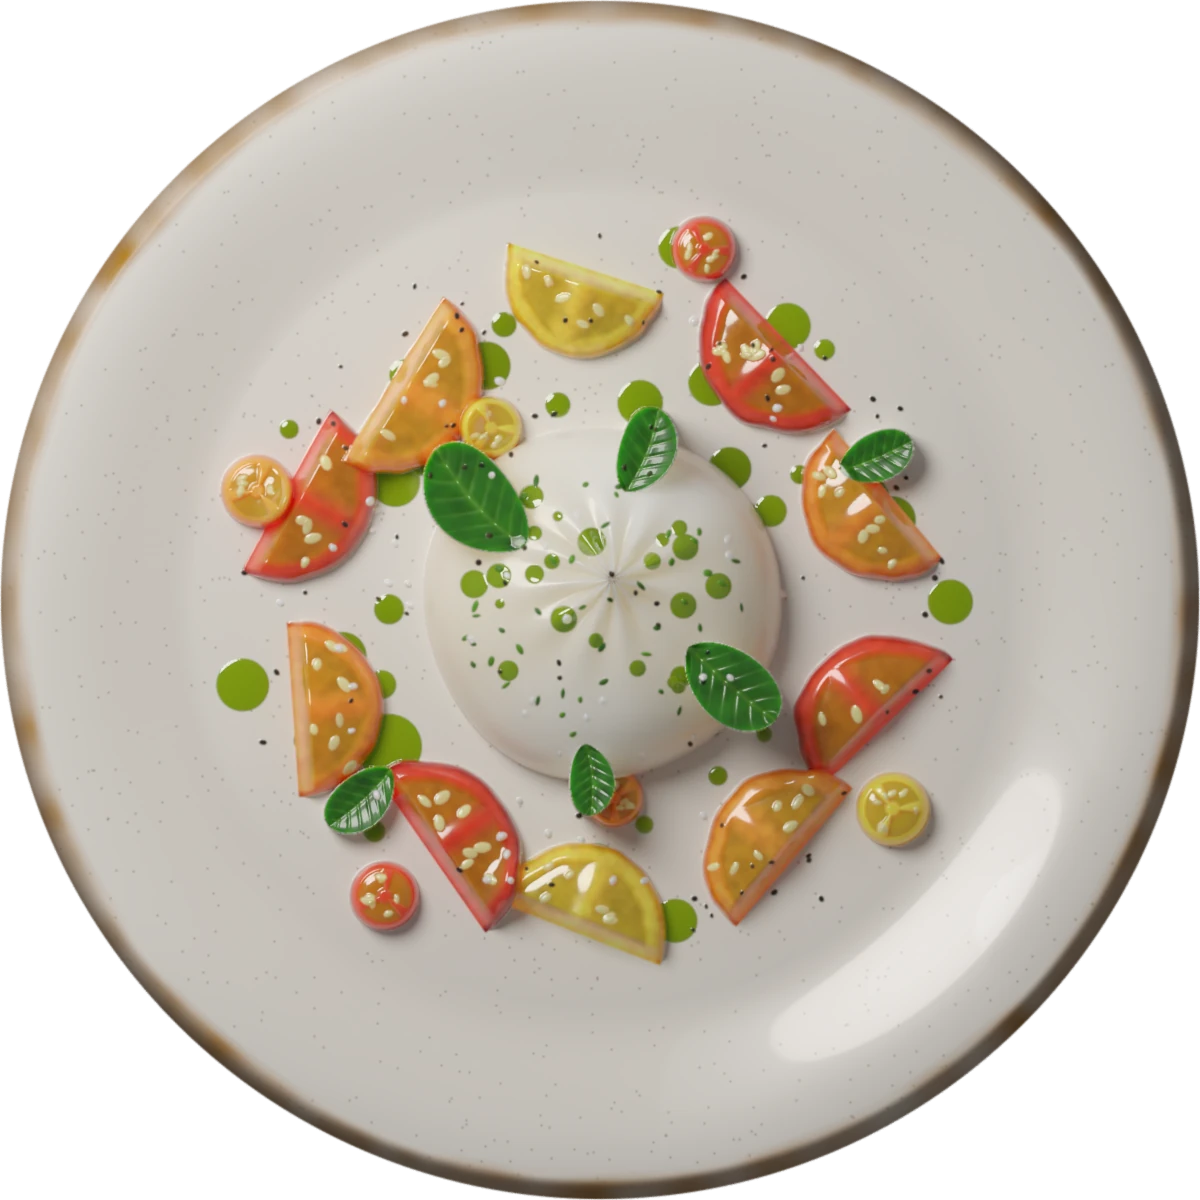
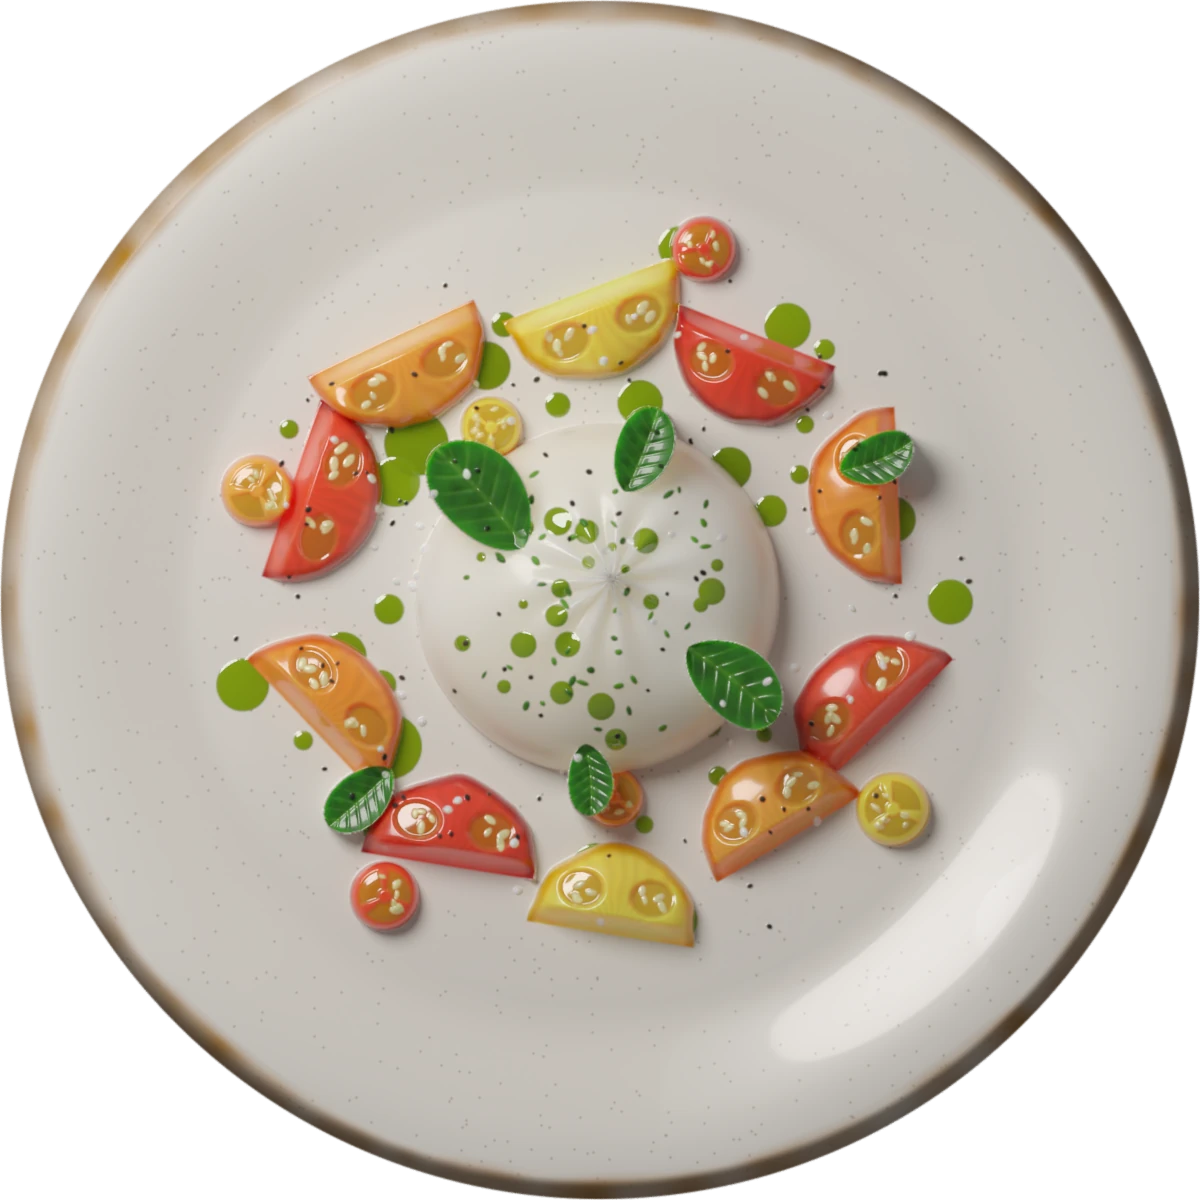
Polish TAVOLA: softer shadows, phone scrim, static export, clearer tomatoes
- Plate shadows are wider and softer; the phone scrim now keeps the copy
  on solid floor instead of over the cloth lettering.
- Short landscape windows tighten the detail column so the order bar
  always fits.
- The opening waits for the plates to decode, so they no longer pop in.
- The nav comes before the table in the document, and the row of ticks
  is out of the tab order (the arrows and arrow keys do the same job).
- TAVOLA_EXPORT=1 now builds a static site; the two streaming options
  are switched off for that build because an export has no server.
- Redrew the tomato wedges on the burrata plate with flesh, a core and
  seed pockets, and scattered the peppercorns instead of ringing them.
- Own icon instead of the starter favicon; README pointer at the root.

Claude-Session: https://claude.ai/code/session_01WM6oeHUoorp6yvYmaWkMyB

Changed region(s): [[0.185, 0.185, 0.8017, 0.8017]]

diff --git a/tavola/src/components/Hero.tsx b/tavola/src/components/Hero.tsx
@@ -380,7 +380,7 @@ export default function Hero() {
         e.pos = next;
       } else {
         const x0 = e.pos - e.target;
-        if (Math.abs(x0) < 0.0004 && Math.abs(e.vel) < 0.002) {
+        if (Math.abs(x0) < 0.001 && Math.abs(e.vel) < 0.01) {
           e.pos = e.target;
           e.vel = 0;
         } else {
@@ -705,6 +705,82 @@ export default function Hero() {
         {say}
       </p>
 
+      {/* ---------- nav ---------- */}
+      <header className="hero-nav">
+        <a href="#menu" className="block flex-1 leading-none" aria-label={`${brand.name}, ${brand.tagline}`}>
+          <span className="block font-serif text-[1.12rem] font-medium tracking-[0.34em]">{brand.name}</span>
+          <span className="mt-[0.45rem] block text-[0.54rem] font-medium tracking-[0.3em] text-cream/55 uppercase">
+            {brand.tagline}
+          </span>
+        </a>
+
+        <nav aria-label="Primary" className="hidden flex-none pt-1 wide:block">
+          <ul className="flex gap-9">
+            {nav.map((item) => (
+              <li key={item.href}>
+                <a className="nav-link" href={item.href}>
+                  {item.label}
+                </a>
+              </li>
+            ))}
+          </ul>
+        </nav>
+
+        <div ref={orderRef} className="relative flex flex-1 justify-end pt-1">
+          <button
+            type="button"
+            className="nav-link flex items-center gap-2.5"
+            aria-expanded={orderOpen}
+            aria-controls="order-panel"
+            onClick={() => setOrderOpen((v) => !v)}
+          >
+            <span>Order</span>
+            <span key={count} className="badge" aria-hidden>
+              {count}
+            </span>
+            <span className="sr-only">
+              , {count} {count === 1 ? "portion" : "portions"}
+            </span>
+          </button>
+          {orderOpen && (
+            <div id="order-panel" className="order-panel" role="dialog" aria-label="Your order">
+              <p className="label">Your order</p>
+              {count === 0 ? (
+                <p className="mt-3 text-[0.9rem] leading-relaxed text-cream/70">
+                  Nothing yet. Turn the table, open a dish and add it from there.
+                </p>
+              ) : (
+                <>
+                  <ul className="mt-3 divide-y divide-cream/15 border-y border-cream/15 text-[0.9rem]">
+                    {dishes
+                      .filter((d) => order[d.id])
+                      .map((d) => (
+                        <li key={d.id} className="flex items-baseline justify-between gap-4 py-2.5">
+                          <span>
+                            <span className="text-cream/55 tabular-nums">{order[d.id]} ×</span> {d.name[0]} {d.name[1]}
+                          </span>
+                          <span className="tabular-nums">€{order[d.id] * d.price}</span>
+                        </li>
+                      ))}
+                  </ul>
+                  <div className="mt-3 flex items-baseline justify-between">
+                    <span className="label">Total</span>
+                    <span className="font-serif text-[1.5rem] leading-none">€{total}</span>
+                  </div>
+                  <button
+                    type="button"
+                    className="mt-4 text-[0.62rem] font-semibold tracking-[0.22em] text-cream/60 uppercase underline-offset-4 hover:text-cream hover:underline"
+                    onClick={() => setOrder({})}
+                  >
+                    Clear the order
+                  </button>
+                </>
+              )}
+            </div>
+          )}
+        </div>
+      </header>
+
       {/* ---------- the table ---------- */}
       <div
         ref={stageRef}
@@ -831,82 +907,6 @@ export default function Hero() {
 
       <div className="scrim" />
 
-      {/* ---------- nav ---------- */}
-      <header className="hero-nav">
-        <a href="#menu" className="block flex-1 leading-none" aria-label={`${brand.name}, ${brand.tagline}`}>
-          <span className="block font-serif text-[1.12rem] font-medium tracking-[0.34em]">{brand.name}</span>
-          <span className="mt-[0.45rem] block text-[0.54rem] font-medium tracking-[0.3em] text-cream/55 uppercase">
-            {brand.tagline}
-          </span>
-        </a>
-
-        <nav aria-label="Primary" className="hidden flex-none pt-1 wide:block">
-          <ul className="flex gap-9">
-            {nav.map((item) => (
-              <li key={item.href}>
-                <a className="nav-link" href={item.href}>
-                  {item.label}
-                </a>
-              </li>
-            ))}
-          </ul>
-        </nav>
-
-        <div ref={orderRef} className="relative flex flex-1 justify-end pt-1">
-          <button
-            type="button"
-            className="nav-link flex items-center gap-2.5"
-            aria-expanded={orderOpen}
-            aria-controls="order-panel"
-            onClick={() => setOrderOpen((v) => !v)}
-          >
-            <span>Order</span>
-            <span key={count} className="badge" aria-hidden>
-              {count}
-            </span>
-            <span className="sr-only">
-              , {count} {count === 1 ? "portion" : "portions"}
-            </span>
-          </button>
-          {orderOpen && (
-            <div id="order-panel" className="order-panel" role="dialog" aria-label="Your order">
-              <p className="label">Your order</p>
-              {count === 0 ? (
-                <p className="mt-3 text-[0.9rem] leading-relaxed text-cream/70">
-                  Nothing yet. Turn the table, open a dish and add it from there.
-                </p>
-              ) : (
-                <>
-                  <ul className="mt-3 divide-y divide-cream/15 border-y border-cream/15 text-[0.9rem]">
-                    {dishes
-                      .filter((d) => order[d.id])
-                      .map((d) => (
-                        <li key={d.id} className="flex items-baseline justify-between gap-4 py-2.5">
-                          <span>
-                            <span className="text-cream/55 tabular-nums">{order[d.id]} ×</span> {d.name[0]} {d.name[1]}
-                          </span>
-                          <span className="tabular-nums">€{order[d.id] * d.price}</span>
-                        </li>
-                      ))}
-                  </ul>
-                  <div className="mt-3 flex items-baseline justify-between">
-                    <span className="label">Total</span>
-                    <span className="font-serif text-[1.5rem] leading-none">€{total}</span>
-                  </div>
-                  <button
-                    type="button"
-                    className="mt-4 text-[0.62rem] font-semibold tracking-[0.22em] text-cream/60 uppercase underline-offset-4 hover:text-cream hover:underline"
-                    onClick={() => setOrder({})}
-                  >
-                    Clear the order
-                  </button>
-                </>
-              )}
-            </div>
-          )}
-        </div>
-      </header>
-
       {/* ---------- copy ---------- */}
       <div
         className="copy"
@@ -968,6 +968,8 @@ export default function Hero() {
                       key={d.id}
                       type="button"
                       className="tick"
+                      // the arrows either side (and the arrow keys) already do this from a keyboard
+                      tabIndex={-1}
                       aria-label={`${d.name[0]} ${d.name[1]}`}
                       aria-current={i === active ? "true" : undefined}
                       onClick={() => goTo(i)}

diff --git a/tavola/src/components/Sections.tsx b/tavola/src/components/Sections.tsx
@@ -48,7 +48,7 @@ export default function Sections() {
             {dishes.map((d, i) => (
               <li
                 key={d.id}
-                className="grid grid-cols-[2.2rem_1fr] items-baseline gap-x-4 gap-y-1 border-b border-cream/15 py-4 wide:grid-cols-[3rem_1fr_1fr_auto] wide:py-5"
+                className="grid grid-cols-[2.2rem_1fr] items-baseline gap-x-4 gap-y-1 border-b border-cream/15 py-4 wide:grid-cols-[3rem_1.1fr_1fr_11rem] wide:py-5"
               >
                 <span className="text-[0.7rem] tracking-[0.2em] text-cream/40 tabular-nums">{String(i + 1).padStart(2, "0")}</span>
                 <span className="font-serif text-[1.25rem] leading-tight font-[360]">

diff --git a/tavola/next.config.ts b/tavola/next.config.ts
@@ -8,8 +8,9 @@ import type { NextConfig } from "next";
 const staticExport = process.env.TAVOLA_EXPORT === "1";
 
 const nextConfig: NextConfig = {
-  cacheComponents: true,
-  partialPrefetching: true,
+  // a static export has no server to stream from, so these two stay off there
+  cacheComponents: !staticExport,
+  partialPrefetching: !staticExport,
   ...(staticExport ? { output: "export" as const } : {}),
   turbopack: {
     // this app lives in a sub-folder of the repository

diff --git a/tavola/src/app/globals.css b/tavola/src/app/globals.css
@@ -32,12 +32,15 @@
 }
 
 html {
+  color-scheme: dark;
   background: var(--color-ink);
   scroll-behavior: smooth;
 }
 
 body {
   font-family: var(--font-sans);
+  font-size: 1rem;
+  line-height: 1.5;
   color: var(--color-cream);
   background: var(--color-ink);
 }

diff --git a/tavola/art/dishes.py b/tavola/art/dishes.py
@@ -116,7 +116,8 @@ def herbs(c: Canvas, n, where, size=0.008, cols=("#3c7a22", "#2c5f1a", "#5c9a30"
 
 
 def tomato_wedge(c: Canvas, cx, cy, L, W, ang, skin, flesh):
-    """A wedge lying cut-face up: skin arc on one side, core on the other."""
+    """A wedge lying cut-face up: skin arc on one side, pale core on the other,
+    two seed pockets between thick walls of flesh."""
     skin, flesh = hexc(skin), hexc(flesh)
     sl, x, y = c.win(cx, cy, L * 0.62)
     u, v = local(x, y, cx, cy, ang)
@@ -126,29 +127,30 @@ def tomato_wedge(c: Canvas, cx, cy, L, W, ang, skin, flesh):
     k = k * (1 + 0.025 * c.noise(sl, 6 / L, 2))
     sd = np.maximum((k - 1) * b, -v)
     m = cov(sd, c.px)
-    wall = sstep(0.74, 0.86, k)
-    core = sstep(0.16 * b, 0.05 * b, v)
-    rib = np.exp(-(u / (0.07 * L)) ** 2)
-    gel = np.clip(1 - np.maximum(np.maximum(wall, core), rib), 0, 1)
-    gelcol = (flesh * 0.55 + hexc("#c8b02a") * 0.45) * 0.8
-    cv = mixc(flesh * 1.12, gelcol, gel)
-    cv = mixc(cv, flesh * 1.5 + 0.06, core * 0.7)
-    cv = mixc(cv, skin, sstep(0.9, 0.97, k))
-    cv = cv * (0.93 + 0.14 * c.noise(sl, 20 / L, 2))[..., None]
-    h = 0.062 * np.clip(1 - k * k, 0, 1) ** 0.35 * sstep(0.0, 0.03, v) * (1 - 0.12 * gel)
-    c.put(sl, m, h=h, mode="lay", span=0.03, col=cv, rough=0.2 - 0.1 * gel, coat=0.55 + 0.4 * gel, sss=0.95,
+    # two pockets of seed jelly, one either side of the central rib
+    pocket = np.zeros_like(k)
+    for sgn in (-1, 1):
+        pu, pv = (u - sgn * 0.21 * L) / (0.15 * L), (v - 0.46 * b) / (0.24 * b)
+        pocket = np.maximum(pocket, sstep(1.0, 0.72, np.sqrt(pu * pu + pv * pv)))
+    core = sstep(0.2 * b, 0.06 * b, v) * sstep(0.42 * L, 0.2 * L, np.abs(u))
+    fibre = 0.5 + 0.5 * np.cos(np.arctan2(v, u) * 26 + 3 * c.noise(sl, 5 / L, 2))
+    meat = flesh * (1.0 + 0.16 * fibre[..., None])
+    jelly = (flesh * 0.62 + hexc("#d9a326") * 0.38) * 0.78
+    cv = mixc(meat, jelly, pocket)
+    cv = mixc(cv, flesh * 1.35 + 0.08, core * 0.75)
+    cv = mixc(cv, skin * 0.92, sstep(0.86, 0.95, k))
+    h = 0.07 * np.clip(1 - k ** 2.4, 0, 1) ** 0.42 * sstep(0.0, 0.035, v) * (1 - 0.16 * pocket)
+    c.put(sl, m, h=h, mode="lay", span=0.03, col=cv, rough=0.24 - 0.14 * pocket, coat=0.45 + 0.5 * pocket, sss=0.9,
           spec=0.55, sssr=np.array([1.0, 0.25, 0.1], F))
-    # seeds suspended in the gel
-    for _ in range(9):
-        su = c.rng.uniform(-0.36, 0.36) * L
-        sv = c.rng.uniform(0.22, 0.62) * W
-        if abs(su) < 0.07 * L:
-            continue
-        ca, sa = np.cos(ang), np.sin(ang)
-        vx = sv - W * 0.42
-        px_, py_ = cx + su * ca - vx * sa, cy + su * sa + vx * ca
-        flecks(c, 1, lambda: (px_, py_), 0.0075 * (L / 0.25), [hexc("#f0e2a0")], height=0.003, aspect=(1.4, 2.0),
-               rough=0.3, sss=0.6, coat=0.5)
+    # a few seeds suspended in each pocket
+    ca, sa = np.cos(ang), np.sin(ang)
+    for sgn in (-1, 1):
+        for _ in range(4):
+            su = (sgn * 0.21 + c.rng.uniform(-0.085, 0.085)) * L
+            vx = (0.46 + c.rng.uniform(-0.13, 0.13)) * b - W * 0.42
+            px_, py_ = cx + su * ca - vx * sa, cy + su * sa + vx * ca
+            flecks(c, 1, lambda: (px_, py_), 0.0062 * (L / 0.25), [hexc("#f2e6ac")], height=0.0025,
+                   aspect=(1.5, 2.1), rough=0.3, sss=0.6, coat=0.5)
 
 
 def cherry_half(c: Canvas, cx, cy, r, skin, flesh):

diff --git a/tavola/art/ingredients.py b/tavola/art/ingredients.py
@@ -150,11 +150,18 @@ def raspberries(c: Canvas):
 
 
 def peppercorns(c: Canvas):
-    pts = [(-0.5, -0.3), (-0.12, -0.52), (0.3, -0.42), (0.6, -0.12), (0.1, -0.1), (-0.35, 0.12), (0.42, 0.25),
-           (-0.02, 0.4), (-0.62, 0.42), (0.66, 0.55), (0.25, 0.68), (-0.3, 0.68), (-0.72, -0.02)]
+    # a loose spill: keep trying random spots, rejecting any that would touch a neighbour
+    pts = []
+    tries = 0
+    while len(pts) < 15 and tries < 4000:
+        tries += 1
+        a, d = c.rng.uniform(0, TAU), 0.74 * c.rng.uniform(0, 1) ** 0.62
+        p = (d * np.cos(a) * 1.0, d * np.sin(a) * 0.82)
+        if all(np.hypot(p[0] - q[0], p[1] - q[1]) > 0.235 for q in pts):
+            pts.append(p)
     cols = ["#1f1712", "#2a1e16", "#17110d", "#1f1712", "#a84a3c", "#2a1e16", "#1c1510", "#6e7a3a", "#241a13"]
     for i, (px_, py_) in enumerate(pts):
-        r = c.rng.uniform(0.095, 0.125)
+        r = c.rng.uniform(0.085, 0.118)
         sl, m, k = mound(c, px_, py_, r, height=r * 0.95, power=0.5, lumps=0.22, lump_freq=22,
                          col=hexc(cols[i % len(cols)]), rough=0.55, coat=0.15, sss=0.1, mode="rest", alpha=True)
         wr = c.noise(sl, 26, 2)

diff --git a/README.md b/README.md
@@ -32,3 +32,7 @@ npm run build    # production build in dist/
 
 ## Editing content
 All business info (phone, hours, services, FAQ, gallery) lives in `src/data.js`.
+
+## Also in this repository
+
+[`tavola/`](tavola) is a separate project with its own `package.json` and README: a restaurant hero where the menu is a round table seen from above, and you turn the table to choose a dish (Next.js, TypeScript, Tailwind v4).
